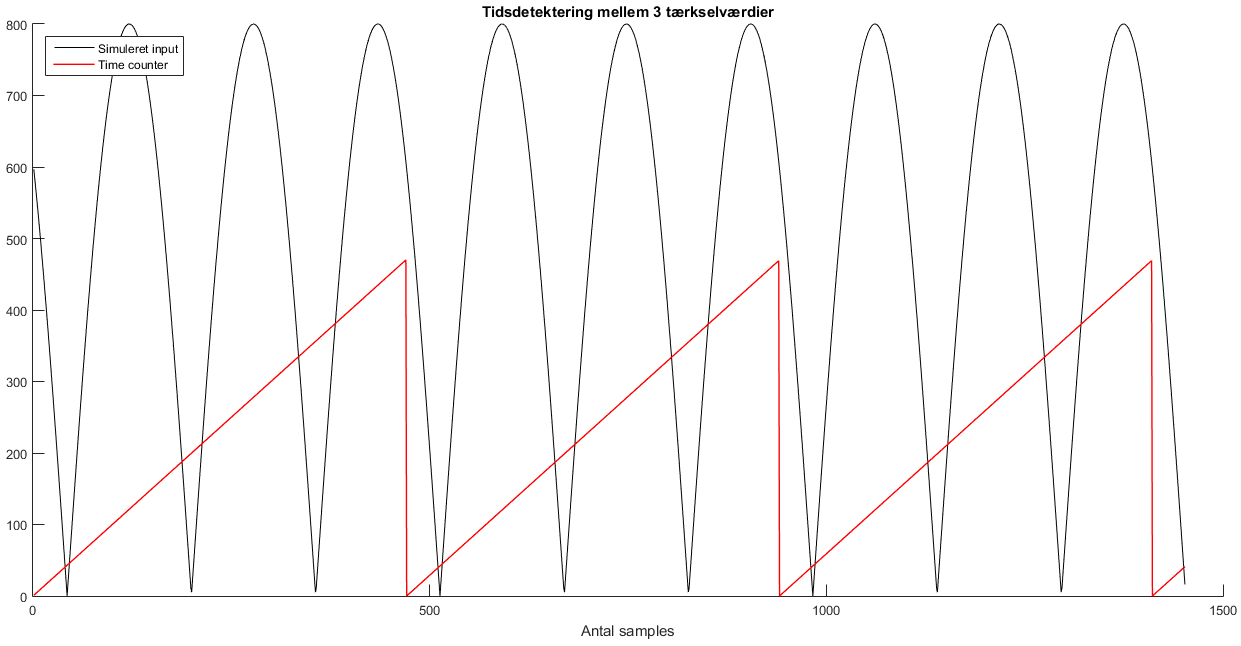
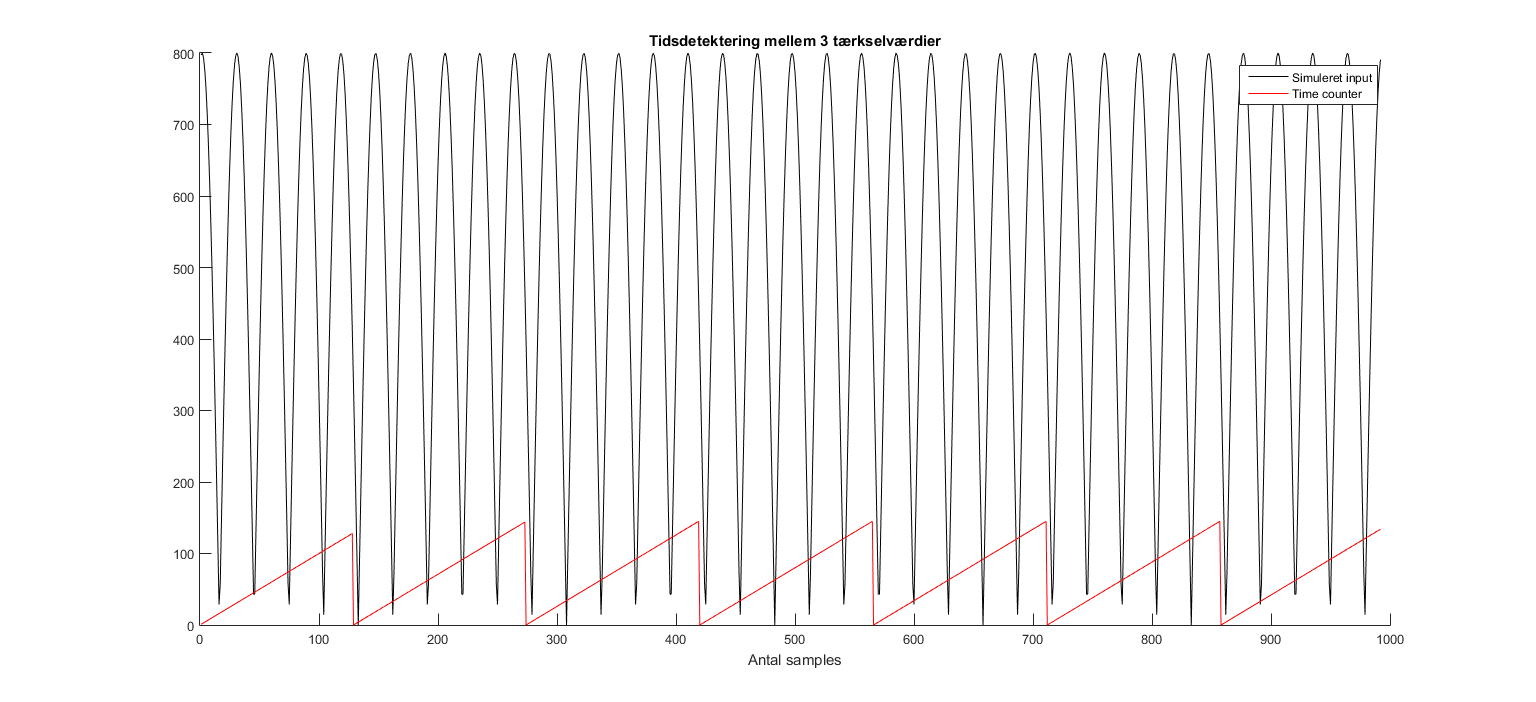
Puls - done

diff --git a/rapportAfsnit/eDesign/Pulssensor.tex b/rapportAfsnit/eDesign/Pulssensor.tex
@@ -26,7 +26,7 @@ Som resultat af signalbehandlingen på \figref{fig:behandlet_puls} ses det, at a
 	\caption{På figuren ses en pulsmåling foretaget på øreflippen. Den røde kurve er en signalbehandlet pulsmåling fra øreflippen, og den sorte stiplede linje er algoritmens tærskelværdi, som har en værdi 400.}
 	\label{fig:taerskel_puls}
 \end{figure} \vspace{-0.5cm}
-Det behandlede signal fremgår af figuren, hvortil der er indtegnet en tærskelværdi, som alle de systoliske peaks vil overskride. Denne tærskelværdi vil medføre, at det systoliske tryk overstiger tærskelværdien, hvortil det diastoliste tryk vil befinder sig under. Algoritmen vil benytte varigheden mellem de forekomne systoliske tryk til at kunne beregne BPM med udgangspunkt i tre detekterede peaks. 
+Det behandlede signal fremgår af figuren, hvortil der er indtegnet en tærskelværdi, som alle de systoliske peaks vil overskride. Denne tærskelværdi vil medføre, at det systoliske tryk overstiger tærskelværdien, hvortil det diastoliste tryk vil befinder sig under. Algoritmen vil benytte varigheden mellem de forekomne systoliske tryk til at kunne beregne BPM med udgangspunkt i fem detekterede peaks. 
 
 \subsection{Implementering} \label{puls_impl}
 Pulssensoren har 3 pins til henholdsvis spændingsforsyning, ground og outputsignal. Disse pins kobles til hver sin pin på GAP peripheral. Outputsignalets pin skal designes i PSoC Creator, således MCUen modtager pulssensorens signaler fra den pågældende pin. Dette gøres ved at indsætte henholdsvis en UART serie kommunikationsblok (SCB) og SAR ADC i topdesignet. UARTen bruges til, at sensoren og MCUen kan kommunikere med hinanden. Standardindstillingerne for denne blok benyttes til konfigurationen af MCUen. \newline
@@ -39,7 +39,7 @@ Efter konfigurering af UART og ADC i topdesignet, skal de korrekte pins indstill
 	\label{fig:puls_pseudo_c}
 \end{figure} \vspace{-0.5cm}
 Første trin, efter dataopsamlingen fra pulssensoren, er en konvertering af det analoge signal til et digitalt. Derefter undersøges det, hvorvidt det konverterede data er klar, hvilket der benyttes en indbygget kodegenerering til. Hvis data er klar, da starter algoritmens time counter som starter optælling af samples. Når en sample er klar, bliver den kvadreret og divideret, som det beskrives i \secref{sec_design_puls}. Den behandlede sample gemmes i en variabel, 'Value[0]'. Når der kommer en ny sample, vil den forrige sample blive gemt i en ny variabel, 'Value[1]', og den nye sample gemmes i den anden variabel. \\
-Yderligere tæller algoritmen antallet af pulsslag, ved at vurdere om 'Value[0]' er under tærkselværdien og 'Value[1]' er over. Hvis dette er tilfældet, vil der blive lagt én til antal pulsslag, dog maksimalt til antal pulsslag er <4. Algoritmen erydermere designet således, at at den registrerer et pulsslag, når en tidligere sample er over tærskelværdien og den efterfølgende sample er under. Derfor vil algoritmen kunne beregne BPM for brugeren, med det forbehold, at antallet af pulsslag skal være 3. Time counteren benyttes i denne forbindelse, til at optælle antallet af samples mellem 3 pulsslag. Beregningen foretages ved at bestemme den gennemsnitlige varighed mellem 3 pulsslag, for derefter at dividere 60 sekunder med den gennemsnitlige varighed. Når beregningen er foretaget, vil BPM for brugeren blive sendt til GAP central gennem bluetooth, hvorefter algoritmens værdier nulstilles.
+Yderligere tæller algoritmen antallet af pulsslag, ved at vurdere om 'Value[0]' er under tærkselværdien og 'Value[1]' er over. Hvis dette er tilfældet, vil der blive lagt én til antal pulsslag, dog maksimalt til antal pulsslag er <6. Algoritmen erydermere designet således, at at den registrerer et pulsslag, når en tidligere sample er over tærskelværdien og den efterfølgende sample er under. Derfor vil algoritmen kunne beregne BPM for brugeren, med det forbehold, at antallet af pulsslag skal være fem. Time counteren benyttes i denne forbindelse, til at optælle antallet af samples mellem fem pulsslag. Beregningen foretages ved at bestemme den gennemsnitlige varighed mellem fem pulsslag, for derefter at dividere 60 sekunder med den gennemsnitlige varighed. Når beregningen er foretaget, vil BPM for brugeren blive sendt til GAP central gennem bluetooth, hvorefter algoritmens værdier nulstilles.
 
 
 \subsection{Test}
@@ -48,21 +48,21 @@ Testen udføres med henhold til de opstillede krav og tilhørende tilladte afvig
 
 Algoritmens funktionalitet testes ved at indsende et simuleret signal, som består af et absolut sinussignal. Peaks på dette simulerede signal skal repræsentere de systoliske peaks i en pulssignal optages med en pulssensor.\\
 Det simulerede signal sendes ind i MCUen, hvorefter det undersøges hvorvidt time counteren detekterer varigheden mellem overskridelser af algoritmens opsætning. Når pulsen er bestemt, benyttes programmet Real Term til at printe algoritmens slutresultat, som er BPM. \\
-Det indsendte signal er et absolut sinussignal, som har en frekvens på 0,6~Hz og en samplingsfrekvens på 188~Hz. Ydermere er det array, som indsendes til MCUen, på 1451 samples. Derfor kan det bestemmes hvilken puls, som algoritmen bør printe i Real Term. \\
-Der indsendes 1451 samples og benyttes en samplingsfrekvens på 188~Hz, hvormed arrayet har en længde på 7,7 sekunder. Idet der er tale om et absolut sinussignal på 0,6~Hz, vil der opstå 9,26 peaks i det indsendte signal. Dette vil betyde, at algoritmen skal udregne og printe tre værdier for pulsen, idet der er 9 fuldstændige peaks. \\
-Når der er 9,26 peaks og arrayet har en varighed af 7,7 sekunder, vil der være 0,83 sekunder mellem hver overskridelse af tærskelværdien. Pulsen bestemmes, som det fremgår af \eqref{eq:puls_teori}.
+Det indsendte signal er et absolut sinussignal, som har en frekvens på 0,6~Hz og en signalfrekvens på 35~Hz. Ydermere er det array, som indsendes til MCUen, på 992 samples. Derfor kan det bestemmes hvilken puls, som algoritmen bør printe i Real Term. \\
+Der indsendes 992 samples og benyttes en singalfrekvens 35~Hz, hvormed arrayet har en længde på 28,3 sekunder. Idet der er tale om et absolut sinussignal på 0,6~Hz, vil der opstå 34 peaks i det indsendte signal. Dette vil betyde, at algoritmen skal udregne og printe seks værdier for pulsen, idet der er 34 fuldstændige peaks. \\
+Når der er 34 peaks og arrayet har en varighed af 28,3 sekunder, vil der være 0,83 sekunder mellem hver overskridelse af tærskelværdien. Pulsen bestemmes, som det fremgår af \eqref{eq:puls_teori}.
 \begin{equation}
 \frac{60~sekunder}{Varighed~mellem~samples} = \frac{60~sekunder}{0,83~sekunder} = 72~BPM
 \label{eq:puls_teori}
 \end{equation} 
 Derfor vil det indsendte signal medføre en værdi af 72 BPM. Det er forventeligt, at algoritmen vil beregne og printe en puls, som har en værdi af 72 BPM.
 
-Algoritmen er bestemt til at nulstille sin time counter hver gang der registreres tre tilfælde, hvor en sample er gået under tærskelværdien. Derfor vil algoritmen gøre brug af time counterens optalte antal samples til at bestemme pulsen for den pågældende periode. \\
-Ved at indsende det simulerede signal fremgår det af \figref{fig:timecounter_puls_realterm}, hvordan time counteren nulstilles, når der er registreret tre tilfælde. Ydermere ses det i \tabref{tab:test_puls_realterm}, at Real Term har printer de forventede værdi for BPM.
+Algoritmen er bestemt til at nulstille sin time counter hver gang der registreres fem tilfælde, hvor en sample er gået under tærskelværdien. Derfor vil algoritmen gøre brug af time counterens optalte antal samples til at bestemme pulsen for den pågældende periode. \\
+Ved at indsende det simulerede signal fremgår det af \figref{fig:timecounter_puls_realterm}, hvordan time counteren nulstilles, når der er registreret fem tilfælde. Ydermere ses det i \tabref{tab:test_puls_realterm}, at Real Term har printer de forventede værdi for BPM.
 \begin{figure}[H]
 	\centering
 	\includegraphics[scale=0.4]{figures/cDesign/timecounter_puls_pic.png}
-	\caption{På figuren ses algoritmens timecounter, som tæller op, indtil en sample på det tredje pulsslag er gået under tærskelværdien. Efterfulgt af dette vil time counteren nulstilles og starter samme procedure.}
+	\caption{På figuren ses algoritmens timecounter, som tæller op, indtil en sample på det femte pulsslag er gået under tærskelværdien. Efterfulgt af dette vil time counteren nulstilles og starter samme procedure.}
 \label{fig:timecounter_puls_realterm}
 \end{figure}
 \begin{table}[H]
@@ -71,13 +71,13 @@ Ved at indsende det simulerede signal fremgår det af \figref{fig:timecounter_pu
 		\hline
 		\rowcolor[HTML]{C0C0C0} 
 		Forventet værdi [BPM] & Modtaget værdi [BPM] & Afvigelse [\%]\\ \hline
-		72 - 72 - 72          & 72 - 72 - 72         & 0 - 0 - 0 \\ \hline
+		72 - 72 - 72 - 72 - 72 - 72         & 72 - 72 - 72 - 72 - 72 - 72         & 0 - 0 - 0 - 0 - 0 - 0 \\ \hline
 	\end{tabular}
 	\caption{I tabellen ses resultaterne fra algoritmens beregning af pulsen på et simuleret inputsignal. Tabellens kolonne; Modtaget værdi, er resultatet fra Real Term.}
 	\label{tab:test_puls_realterm}
 \end{table} \vspace{-0.5cm}
 
-Det fremgår af \figref{fig:timecounter_puls_realterm}, at algoritmen tæller indtil tre peaks er detekteret. Herefter beregner algoritmen pulsen ud fra det antal samples, som findes inden for disse tre peaksdetekteringer. Herefter printes pulsen i Realterm, hvor værdierne er illustreret i tabellen. Det fremgår ydermere, at de modtagede værdier har 0\% afvigelse fra de forventede værdier. \\
+Det fremgår af \figref{fig:timecounter_puls_realterm}, at algoritmen tæller indtil fem peaks er detekteret. Herefter beregner algoritmen pulsen ud fra det antal samples, som findes inden for disse fem peaksdetekteringer. Herefter printes pulsen i Realterm, hvor værdierne er illustreret i tabellen. Det fremgår ydermere, at de modtagede værdier har 0\% afvigelse fra de forventede værdier. \\
 Det kan derfor konkluderes, at pulssensoren og den tilhørende algoritme fungerer som tiltænkt ved benyttelse af et simuleret inputsignal. 
 
 Der foretages yderligere en test, med henblik på at vurdere hvorvidt pulssensoren opfylder de opstillede krav i \secref{puls_krav}. \\
@@ -88,9 +88,9 @@ Resultaterne af den udførte test fremgår af \tabref{tab:test_pulssystem}.
 	\begin{tabular}{ccc} \hline
 		\rowcolor[HTML]{C0C0C0} 
 			Gennemsnitlig puls LoggerPro {[}BPM{]} & Gennemsnitlig puls Algortime {[}BPM{]} & Afvigelse {[}\%{]} \\ \hline
-			60,4 & 64,5 & 6,4 \\ \hline
+			66,1 & 76 & 13 \\ \hline
 		\end{tabular}%
-	\caption{I tabellen ses det den gennemsnitlige puls fra Logger Pro og Real Term. Det fremgår, at pulssensoren og den tilhørende algoritme har en afvigelse på 6,4\%.}
+	\caption{I tabellen ses det den gennemsnitlige puls fra Logger Pro og Real Term. Det fremgår, at pulssensoren og den tilhørende algoritme har en afvigelse på 13\%.}
 	\label{tab:test_pulssystem}
 \end{table} \vspace{-0.5cm}
-Det fremgår i \tabref{tab:test_pulssystem}, at testen af pulssensoren og den tilhørende algoritme viser en gennemsnitlig afvigelse fra referenceværdien på 6,4\%. Dermed overholder pulssensoren de opstillede krav i \secref{puls_krav}.
+Det fremgår i \tabref{tab:test_pulssystem}, at testen af pulssensoren og den tilhørende algoritme viser en gennemsnitlig afvigelse fra referenceværdien på 13\%. Dermed overholder pulssensoren de opstillede krav i \secref{puls_krav}.
